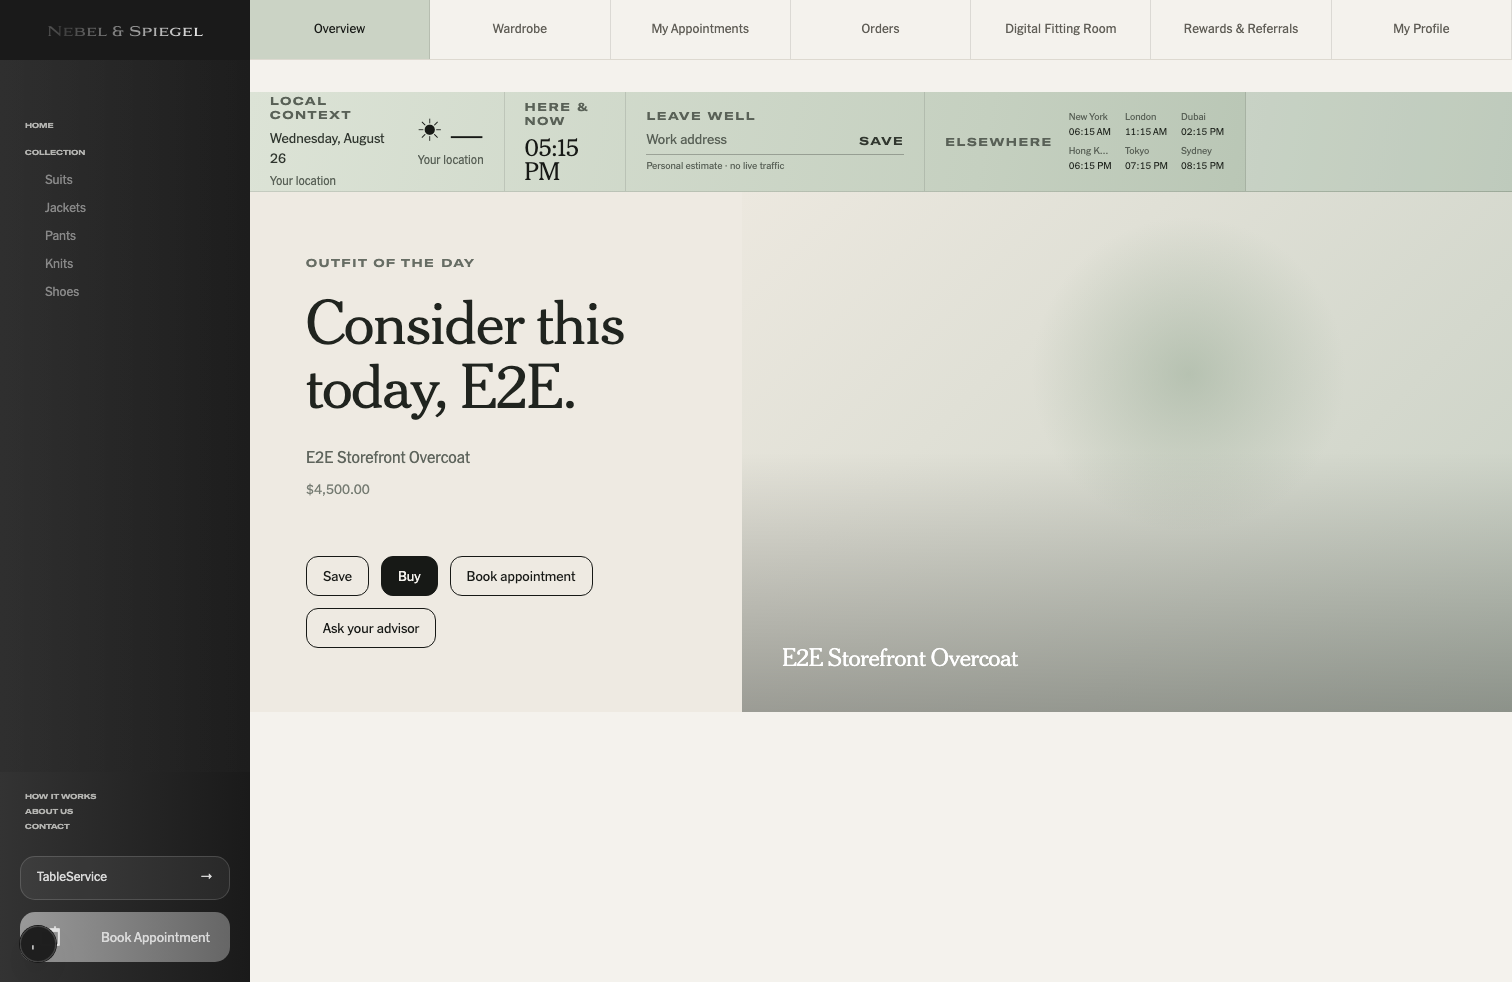
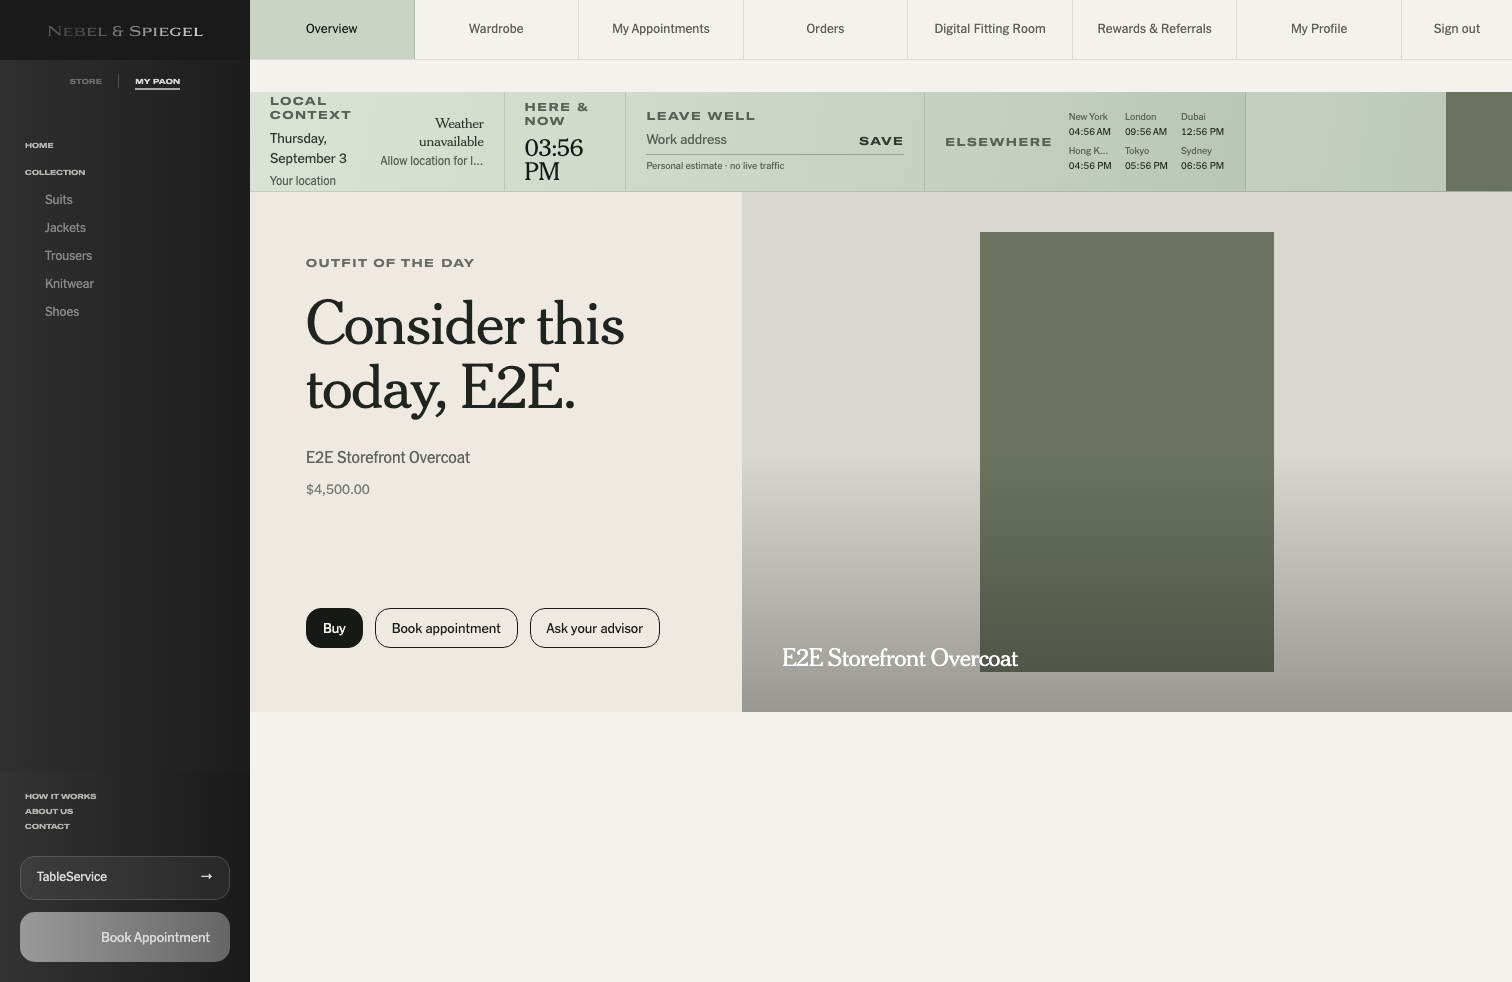
evidence(20.5): close codex-customer-overview daily-return composition
Overview composes the compact local-context strip directly above the real
Morning Routine OOTD; the redundant dark-morning, Today's Edit, generic
promotional and Complete the Look blocks are gone. Proven by
apps/customer/e2e/dashboard-morning-routine-hero.spec.ts (3/3 local runs).

- docs/evidence/runs/20.5.json — passed run artifact
- docs/evidence/tranches/20.5.json — verified_local
- docs/evidence/runs/20.5-customer-overview/{desktop,mobile} screenshots
- docs/PHASE.md — 20.5 checkbox [x]

diff --git a/docs/PHASE.md b/docs/PHASE.md
@@ -8223,7 +8223,7 @@ setContractValue`. `corporate_exceptions.kind` gains a `repair`
     no code or architecture change.
   - **Tests:** source inventory cross-check only.
 
-- [ ] **20.5 codex-customer-overview — daily-return composition correction**
+- [x] **20.5 codex-customer-overview — daily-return composition correction**
   - **Requirement IDs:** `CENV-OVERVIEW-001`.
   - **Dependencies:** `20.2`.
   - **Fleet owned paths:** `apps/customer/app/(dashboard)/dashboard/page.tsx`,
